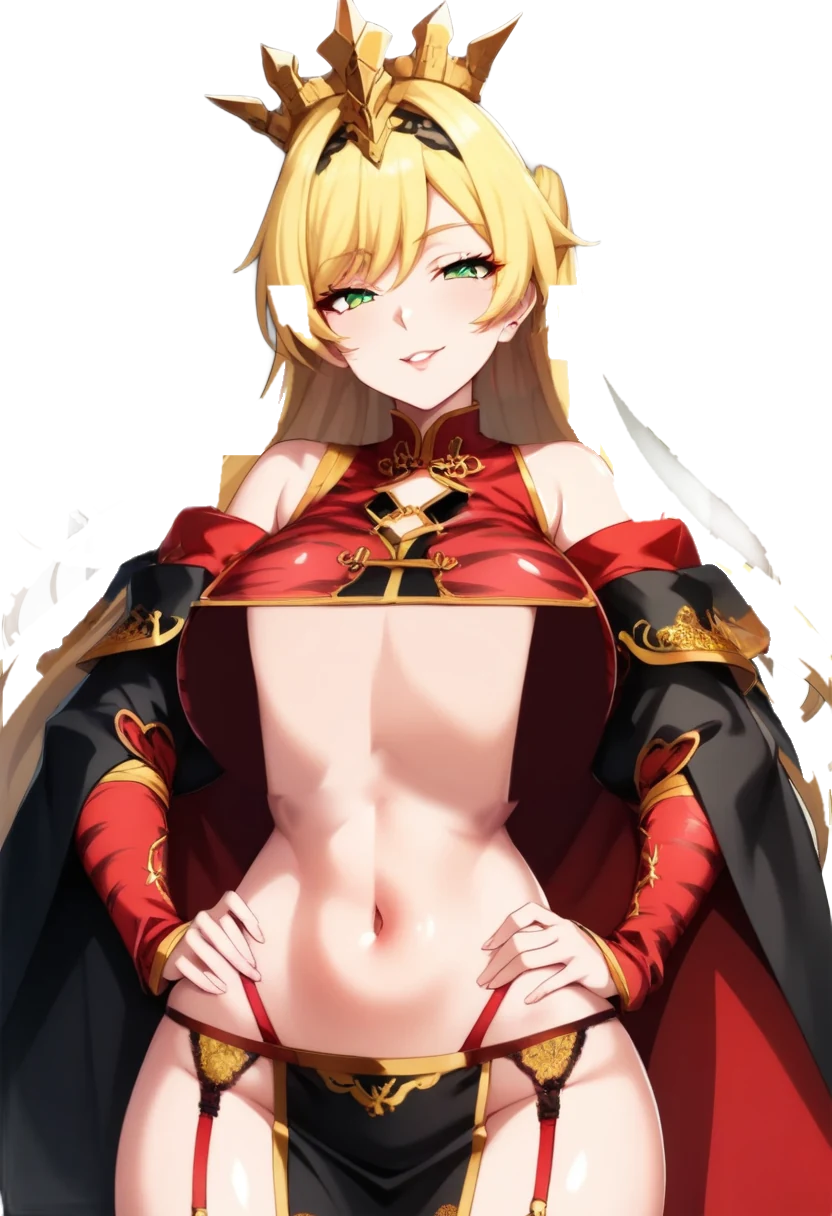
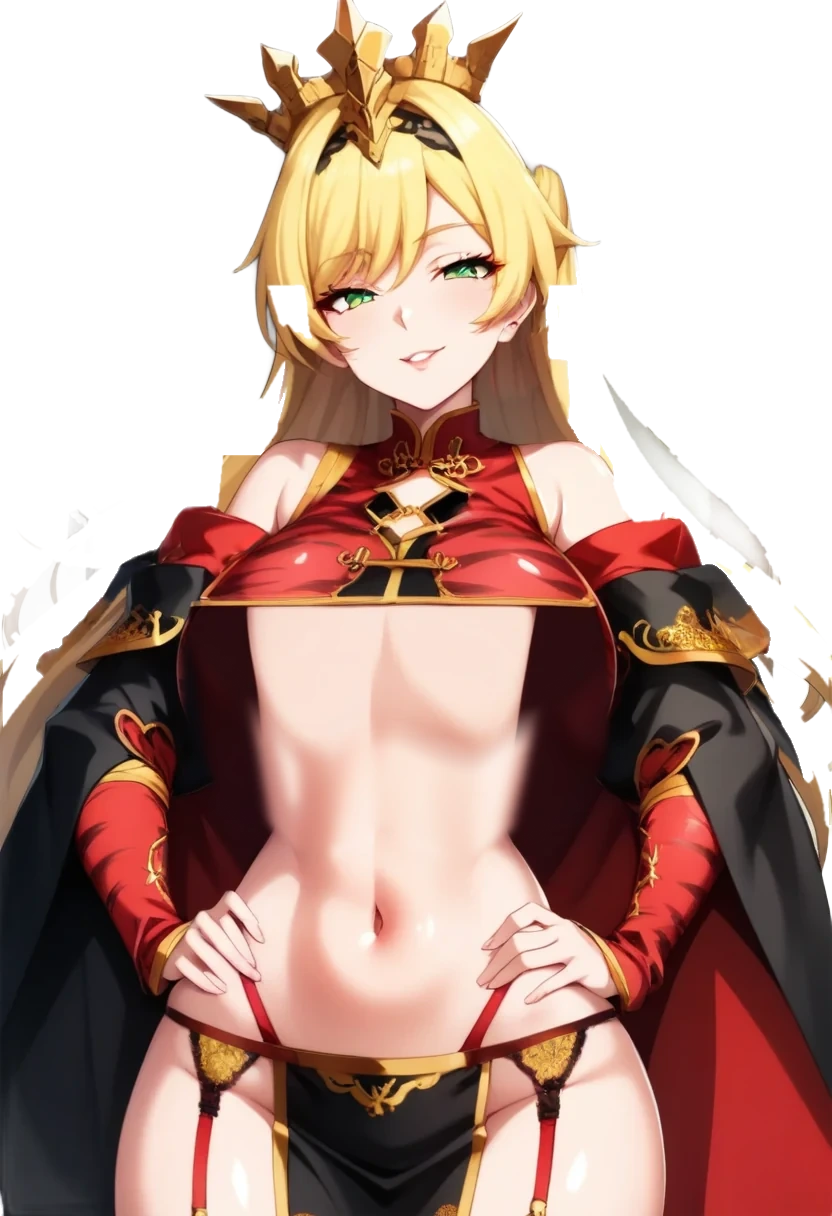
Sunquan UR: clean under-bust area revealed when chest moves
Claude-Session: https://claude.ai/code/session_017CQhY3FLdH51zJppLF11JD

Changed region(s): [[0.2812, 0.5625, 0.6562, 0.7188], [0.2188, 0.5312, 0.25, 0.625], [0.7188, 0.5938, 0.75, 0.625]]

diff --git a/game/public/js/layered.js b/game/public/js/layered.js
@@ -84,11 +84,14 @@
         var o = cvs(), oc = o.getContext("2d"); oc.imageSmoothingEnabled = true; for (var i = 0; i < (times || 1); i++) oc.drawImage(sm, 0, 0, R.w, R.h); return o;
       }
       var FE = opt.feather == null ? 6 : opt.feather, soft = FE > 0 ? blur(m, FE, 4) : m;   // 疊 4 次：遮罩內維持全蓋，只有外圍漸淡
-      var u = cvs(), uc = u.getContext("2d"); uc.drawImage(imgs.under, 0, 0); uc.globalCompositeOperation = "destination-in"; uc.drawImage(soft, 0, 0);
+      // 胸部下緣往下多帶一段（✅ Jay 2026-11-18：胸部一動，下面會露出留在原地的下緣線）：這一段的原圖跟著胸部層走，底下換成乾淨的平胸版
+      var EX = ART ? (R.ext == null ? 20 : R.ext) : 0, ext = soft;
+      if (EX) { var e0 = cvs(), ec = e0.getContext("2d"); for (var dy = 0; dy <= EX; dy += 2) ec.drawImage(m, 0, dy); ext = blur(e0, FE, 4); }
+      var u = cvs(), uc = u.getContext("2d"); uc.drawImage(imgs.under, 0, 0); uc.globalCompositeOperation = "destination-in"; uc.drawImage(ext, 0, 0);
       var b = cvs(), bc = b.getContext("2d"); bc.drawImage(imgs.body, 0, 0);
       bc.globalCompositeOperation = "destination-out"; bc.drawImage(m, 0, 0); bc.globalCompositeOperation = "source-over"; bc.drawImage(u, 0, 0);
       // 胸部層：邊緣收一點柔邊
-      var c = cvs(), cc = c.getContext("2d"); cc.drawImage(imgs.body, 0, 0); if (ART) { cc.clearRect(0, 0, R.w, R.h); cc.drawImage(imgs.chest, 0, 0); }
+      var c = cvs(), cc = c.getContext("2d"); cc.drawImage(imgs.body, 0, 0); if (ART) { cc.globalCompositeOperation = "destination-in"; cc.drawImage(ext, 0, 0); cc.globalCompositeOperation = "source-over"; cc.drawImage(imgs.chest, 0, 0); }
       else { cc.globalCompositeOperation = "destination-in"; cc.drawImage(m, 0, 0); }
       tex = { base: mkTex(b), chest: mkTex(c), blink: mkTex(imgs.blink) }; if (imgs.acc) tex.acc = mkTex(imgs.acc); if (imgs.hair) tex.hair = mkTex(imgs.hair);
     }
